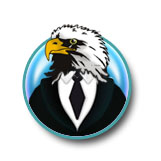
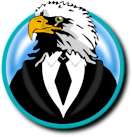
Several changes to the About dialog
- s/BizHawk/EmuHawk/
- s/multi-platform/multi-system/ because, while the former is technically true,
it's very much a Windows app, and the latter is what was intended anyway
- replaced logo w/ a nice upscale courtesy of @DrD2k9
- added VCS branch to commit link
- changed window title from VCS info to "About EmuHawk"
- added build config after release version

diff --git a/src/BizHawk.Client.EmuHawk/BizBox.Designer.cs b/src/BizHawk.Client.EmuHawk/BizBox.Designer.cs
@@ -60,7 +60,7 @@
 			this.pictureBox1.Location = new System.Drawing.Point(12, 10);
 			this.pictureBox1.Name = "pictureBox1";
 			this.pictureBox1.Size = new System.Drawing.Size(164, 164);
-			this.pictureBox1.SizeMode = System.Windows.Forms.PictureBoxSizeMode.StretchImage;
+			this.pictureBox1.SizeMode = System.Windows.Forms.PictureBoxSizeMode.CenterImage;
 			this.pictureBox1.TabIndex = 1;
 			this.pictureBox1.TabStop = false;
 			// 
@@ -73,7 +73,7 @@
 			this.linkLabel1.Size = new System.Drawing.Size(102, 13);
 			this.linkLabel1.TabIndex = 2;
 			this.linkLabel1.TabStop = true;
-			this.linkLabel1.Text = "Bizhawk Homepage";
+			this.linkLabel1.Text = "BizHawk Homepage";
 			this.linkLabel1.LinkClicked += new System.Windows.Forms.LinkLabelLinkClickedEventHandler(this.linkLabel1_LinkClicked);
 			// 
 			// label3
@@ -81,14 +81,14 @@
 			this.label3.Font = new System.Drawing.Font("Microsoft Sans Serif", 12F, System.Drawing.FontStyle.Bold, System.Drawing.GraphicsUnit.Point, ((byte)(0)));
 			this.label3.Location = new System.Drawing.Point(197, 10);
 			this.label3.Name = "label3";
-			this.label3.Text = "BizHawk";
+			this.label3.Text = "EmuHawk";
 			// 
 			// label4
 			// 
 			this.label4.Font = new System.Drawing.Font("Microsoft Sans Serif", 9.75F, System.Drawing.FontStyle.Italic, System.Drawing.GraphicsUnit.Point, ((byte)(0)));
 			this.label4.Location = new System.Drawing.Point(207, 31);
 			this.label4.Name = "label4";
-			this.label4.Text = "\"A multi-platform emulator...\r\nfor productive people.\"";
+			this.label4.Text = "\"A multi-system emulator...\r\nfor productive people.\"";
 			// 
 			// CoreInfoPanel
 			// 
@@ -178,7 +178,7 @@
 			this.MinimumSize = new System.Drawing.Size(453, 253);
 			this.Name = "BizBox";
 			this.StartPosition = System.Windows.Forms.FormStartPosition.CenterParent;
-			this.Text = " BizHawk";
+			this.Text = "About EmuHawk";
 			this.Load += new System.EventHandler(this.BizBox_Load);
 			((System.ComponentModel.ISupportInitialize)(this.pictureBox1)).EndInit();
 			this.ResumeLayout(false);

diff --git a/src/BizHawk.Client.EmuHawk/BizBox.cs b/src/BizHawk.Client.EmuHawk/BizBox.cs
@@ -31,19 +31,22 @@ namespace BizHawk.Client.EmuHawk
 
 		private void BizBox_Load(object sender, EventArgs e)
 		{
-			string mainVersion = VersionInfo.MainVersion;
-			if (IntPtr.Size == 8)
-			{
-				mainVersion += " (x64)";
-			}
-
 			DeveloperBuildLabel.Visible = VersionInfo.DeveloperBuild;
 
-			Text = VersionInfo.DeveloperBuild
-				? $" BizHawk  (GIT {VersionInfo.GIT_BRANCH}#{VersionInfo.GIT_SHORTHASH})"
-				: $"Version {mainVersion} (GIT {VersionInfo.GIT_BRANCH}#{VersionInfo.GIT_SHORTHASH})";
-
-			VersionLabel.Text = $"Version {mainVersion}";
+#if true //TODO prepare for re-adding x86 and adding ARM/RISC-V
+			const string targetArch = "x64";
+#else
+			var targetArch = IntPtr.Size is 8 ? "x64" : "x86";
+#endif
+#if DEBUG
+			const string buildConfig = "Debug";
+#else
+			const string buildConfig = "Release";
+#endif
+			VersionLabel.Text = $"Version {VersionInfo.MainVersion}";
+			VersionLabel.Text += VersionInfo.DeveloperBuild
+				? $" — dev build ({buildConfig}, {targetArch})"
+				: $" ({targetArch})";
 			DateLabel.Text = VersionInfo.ReleaseDate;
 
 			foreach (var core in CoreInventory.Instance.SystemsFlat.Where(core => core.CoreAttr.Released)
@@ -55,7 +58,7 @@ namespace BizHawk.Client.EmuHawk
 				});
 			}
 
-			linkLabel2.Text = $"Commit # {VersionInfo.GIT_SHORTHASH}";
+			linkLabel2.Text = $"Commit :{VersionInfo.GIT_BRANCH}@{VersionInfo.GIT_SHORTHASH}";
 		}
 
 		private void linkLabel2_LinkClicked(object sender, LinkLabelLinkClickedEventArgs e)
